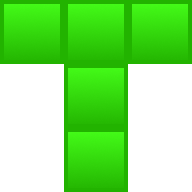
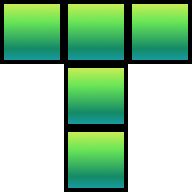
Refactor y Feat: addScore Quitar manager de DynamicImg Cambiar imganes de piezas y frond de game

diff --git a/pages/Game.py b/pages/Game.py
@@ -2,7 +2,7 @@ import pygame as pg
 import numpy as np
 
 import library.piece as piece
-from library.dynamicObjects import DynamicText, DynamicRect
+from library.dynamicObjects import DynamicText, DynamicRect, DynamicImage
 import public.images.loadImages as img
 from library.starsBack import StartMaker
 import library.dataFormating as df
@@ -33,11 +33,13 @@ class Game():
 
         self.gameOverScene = False
  
-        self.pieceInGame = [copy(choice(self.pieces)) for _ in range(7)]
+        self.pieceInGame:list[piece.Piece] = []
         self.score = 0
         self.tickPiece = 0
         self.tickKey = 0
         self.move = [0,0]
+
+        self.nextPiecesRender:list[DynamicImage] = []
 
         self.textRenderNumber = [pg.font.Font(gv.fontLekton, 25).render(f"{i-2}", True, (0,0,0)) for i in range(2,15)]
         self.textRenderModeInactive = pg.font.Font(gv.fontLekton, 30).render(f"Sin modo de juego", True, (255,255,255))
@@ -49,6 +51,9 @@ class Game():
         self.TIMEREVENT = pg.USEREVENT + 2
         pg.time.set_timer(self.TIMEREVENT, 1000)
 
+        for i in range(7):
+            self.nextPiecesRender.append(DynamicImage(900, 50+ 90*i, 0.3, img.completePiecesNum["1"]))
+
         self.backTable = DynamicRect(450,60,390,610,"#050611", 4, "#FFFFFF")
         self.dinamyObjets = [
             
@@ -56,6 +61,9 @@ class Game():
 
     def resize(self):
         for obj in self.dinamyObjets:
+            obj.resize()
+
+        for obj in self.nextPiecesRender:
             obj.resize()
 
     def events(self):
@@ -93,7 +101,11 @@ class Game():
                     gv.limit -= 1
                     self.textRenderLimit = pg.font.Font(gv.fontLekton, 30).render(f"{gv.limit}", True, (255,255,255))
                     if gv.limit <= 0: self.gameOver()
-            
+    
+    def updateNextPieces(self):
+        for index, nextPiece in enumerate(self.pieceInGame[1:]):
+            self.nextPiecesRender[index].changeImg(img.completePiecesNum[str(nextPiece.value)])
+
     def resetGame(self):
         self.board = np.full([gv.dimY,gv.dimX,4], [0, 0, 0, 0])
         self.dimY = self.board.shape[0]
@@ -108,6 +120,7 @@ class Game():
                 self.pieces.append(piece.allPieces[index])
         self.pieceInGame = [copy(choice(self.pieces)) for _ in range(7)]
         self.textRenderLimit = pg.font.Font(gv.fontLekton, 30).render(f"{gv.limit}", True, (255,255,255))
+        self.updateNextPieces()
         
     def checkModePieza(self):
         if gv.mode == 2:
@@ -137,12 +150,12 @@ class Game():
         BackY = (60/720) * H
         scale = ((390/1280) * W)/self.dimX 
 
-        pg.draw.rect(self.screen, "#FFFFFF", (BackX-4, BackY-4,  scale*self.dimX+8, scale*(self.dimY-3)+8), 4)
-
         for Y in range(self.dimY-3):
             pg.draw.line(self.screen, "#141517", (BackX, Y*scale + BackY), (BackX + scale*self.dimX, Y*scale + BackY), 1)
             for X in range(self.dimX):
                 pg.draw.line(self.screen, "#141517", (X*scale + BackX, BackY), (X*scale + BackX, scale*(self.dimY-3) + BackY), 1)
+
+        pg.draw.rect(self.screen, "#FFFFFF", (BackX-4, BackY-4,  scale*self.dimX+8, scale*(self.dimY-3)+8), 4)
 
         for Y in range(3, self.dimY):
             for X in range(self.dimX):
@@ -162,13 +175,8 @@ class Game():
         else: self.screen.blit(self.textRenderModePiece, (200, 150))
 
     def drawUI(self):
-        for pieceIndex, piece in enumerate(self.pieceInGame[1:]):
-            for Y in range(3):
-                for X in range(3):
-                    if piece.shape[Y,X] != 0:
-                        image = self.piecesImg[piece.value]
-                        image = pg.transform.scale(image, (26,26))
-                        self.screen.blit(image, ((1000 + X * 25), 60+Y * 25+ 100*pieceIndex))
+        for nextPiece in self.nextPiecesRender:
+            nextPiece.render()
 
     def clearCompleteLines(self, Y:int = 0):
         if Y == self.dimY:
@@ -203,6 +211,7 @@ class Game():
                     self.gameOver()
                 self.pieceInGame.pop(0)
                 self.pieceInGame.append(copy(choice(self.pieces)))
+                self.updateNextPieces()
                 
                 self.clearCompleteLines()
     

diff --git a/pages/Login.py b/pages/Login.py
@@ -33,18 +33,18 @@ class Login():
 
         self.dynamicObjects = [
             DynamicRect(0, 0, 640, 720, "#FFFFFF"),
-            DynamicImage(10, 10, 0.085, img.logos["isotipoNegro"], self.manager),
+            DynamicImage(10, 10, 0.085, img.logos["isotipoNegro"]),
             DynamicText((640 - pg.font.Font(gv.fontAldrich, 85).size("¡Bienvenido!")[0])/2, 120,"¡Bienvenido!", gv.fontAldrich, 85, "#000000"),
             DynamicText(1260 - pg.font.Font(gv.fontAldrich, 65).size("Tetris")[0], 720 - pg.font.Font(gv.fontAldrich, 65).size("Tetris")[1],"Tetris", gv.fontAldrich, 65, "#FFFFFF"), 
             self.textError,
-            DynamicImage(700, 30, 0.65, img.completePieces["red"], self.manager, rotate = -15),
-            DynamicImage(950, 0, 0.65, img.completePieces["purple"], self.manager, rotate = 5),
-            DynamicImage(1190, 100, 0.65, img.completePieces["blueBlack"], self.manager, rotate = -78),
-            DynamicImage(915, 200, 0.65, img.completePieces["orange"], self.manager, rotate = -5),
-            DynamicImage(775, 350, 0.65, img.completePieces["green"], self.manager, rotate = -16),
-            DynamicImage(1125, 350, 0.65, img.completePieces["blue"], self.manager, rotate = -15),
-            DynamicImage(980, 530, 0.65, img.completePieces["yellow"], self.manager, rotate = 23),
-            DynamicImage(650, 600, 0.65, img.completePieces["greenBlue"], self.manager, rotate = -24),
+            DynamicImage(700, 30, 0.65, img.completePieces["red"], rotate = -15),
+            DynamicImage(950, 0, 0.65, img.completePieces["purple"], rotate = 5),
+            DynamicImage(1190, 100, 0.65, img.completePieces["blueBlack"], rotate = -78),
+            DynamicImage(915, 200, 0.65, img.completePieces["orange"], rotate = -5),
+            DynamicImage(775, 350, 0.65, img.completePieces["green"], rotate = -16),
+            DynamicImage(1125, 350, 0.65, img.completePieces["blue"], rotate = -15),
+            DynamicImage(980, 530, 0.65, img.completePieces["yellow"], rotate = 23),
+            DynamicImage(650, 600, 0.65, img.completePieces["greenBlue"], rotate = -24),
         ]
 
     def events(self):
@@ -99,6 +99,7 @@ class Login():
                 if (outer[1] == self.user[1]):
                     passwordFind = True
                     gv.actualUser = outer
+                    print(gv.actualUser)
 
         return [userFind, passwordFind]
 

diff --git a/library/dynamicObjects.py b/library/dynamicObjects.py
@@ -88,9 +88,8 @@ class DynamicRect():
             pg.draw.rect(self.screen, self.borderColor, (self.x-self.border, self.y-self.border,  self.ObjectW+self.border*2, self.ObjectH+self.border*2), self.border)
 
 class DynamicImage():
-    def __init__(self, x, y, ObjectScale, image:pg.Surface, manager, rotate = 0):
+    def __init__(self, x, y, ObjectScale, image:pg.Surface, rotate = 0):
         self.screen = pg.display.get_surface()
-        self.manager = manager
         self.W = 1280
         self.H = 720
         self.relativeX = x / self.W
@@ -118,6 +117,10 @@ class DynamicImage():
         if y != None:
             self.relativeY = y / self.H
             self.y = self.relativeY * screenH
+
+    def changeImg(self, image:pg.Surface):
+        self.imageSave = image
+        self.resize()
 
     def render(self):
         self.screen.blit(self.image, (self.x, self.y))

diff --git a/library/dataFormating.py b/library/dataFormating.py
@@ -20,7 +20,7 @@ def addUserScore(userMail:str, score:int):
     with open(gv.fileUsers, "w") as file:
         for users in allUsers:
             if users[0] == userMail:
-                users[4].append([score,date.year,date.month,date.day,date.hour])
+                users[4].append([score,date.day,date.month,date.year,date.hour,date.minute])
             file.write("|".join(map(str, users)) + "\n")
 
 def timeDateCompare(dateList:list[int]):

diff --git a/globalVariables.py b/globalVariables.py
@@ -1,4 +1,4 @@
-actualUser = []
+actualUser = ['correo', 'password', 'nombreApellido', 'BolÃ\xadvar', [[300, 5, 6, 2024, 8, 44], [300, 5, 6, 2024, 8, 43]]]
 
 # Pages
 actualPage = 0 # 0: Login, 1: Register, 2: Menu, 3: Selection, 4: Game, 5: Leaderboard, 6: Config
